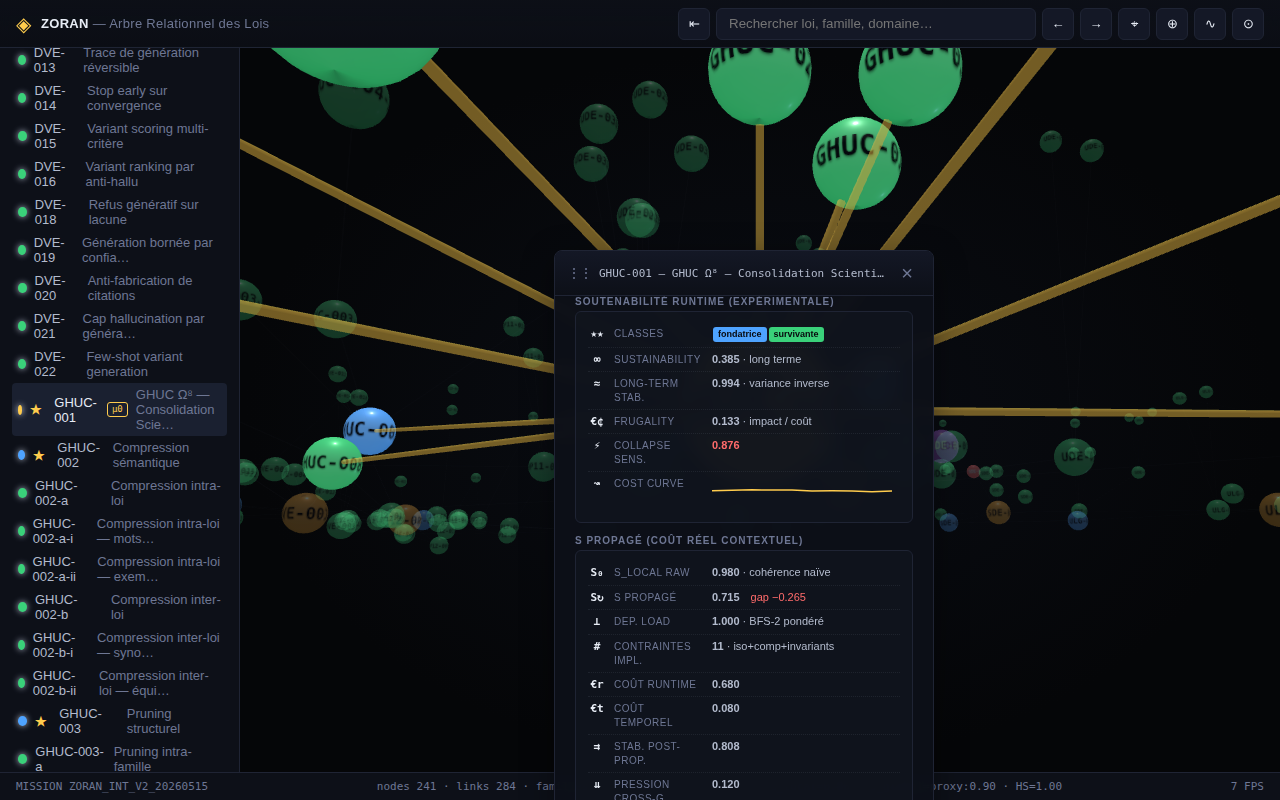
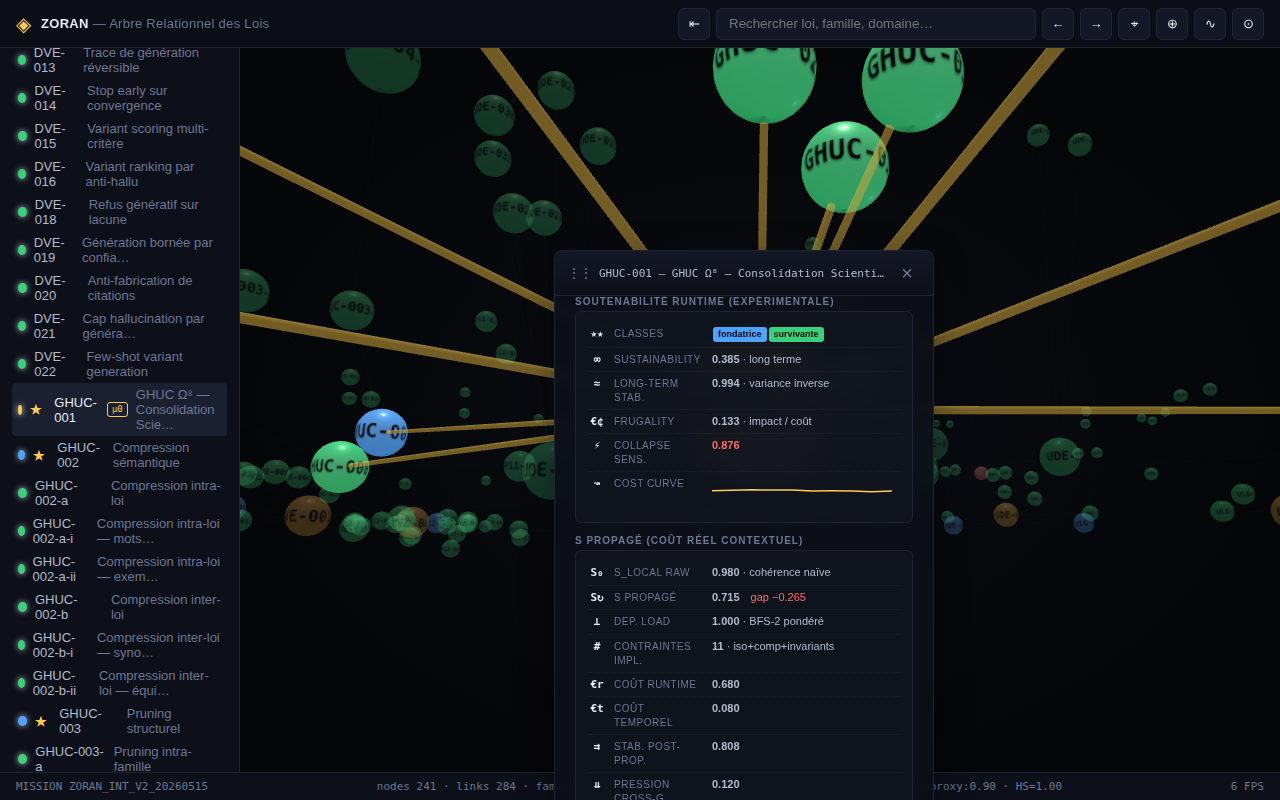
Renforcement ★ visibles + pan clic droit confirmé runtime
- Anneaux dorés ★ agrandis (1.40/1.70/2.05r, opacité 0.95/0.65/0.30) +
  sprite étoile SVG flottant au-dessus de chaque sphère (renderOrder 999)
  + pulse subtil 1.0±0.06 à 1.6 Hz pour signaler les 29 lois supérieures.
- Smoke test : pan clic droit validé runtime — dcam=592 units après drag
  Playwright LEFT (warmup) + RIGHT + synthetic PointerEvent. enablePan=true,
  mouseButtons.RIGHT=2=PAN, controls=OrbitControls. 8/8 vert, 0 erreur.

https://claude.ai/code/session_011xhkYNTzAhQ8wkL4Snv1iD

diff --git a/app/src/main.js b/app/src/main.js
@@ -189,17 +189,51 @@ function makeBilliardMesh(node) {
   // Mission ZORAN_DYNAMIC_VELOCITY_HIERARCHY_GRAPH : les ★ doivent
   // être visibles DANS LE GRAPHE (pas seulement sidebar/panel).
   if (node.superior_law_candidate) {
+    // Inner bright gold ring (orbit plane independent — face camera each frame)
     const supRing1 = new THREE.Mesh(
-      new THREE.TorusGeometry(radius * 1.35, Math.max(0.06, radius * 0.03), 8, 64),
-      new THREE.MeshBasicMaterial({ color: 0xffcc4d, transparent: true, opacity: 0.55, depthWrite: false })
+      new THREE.TorusGeometry(radius * 1.40, Math.max(0.10, radius * 0.06), 10, 80),
+      new THREE.MeshBasicMaterial({ color: 0xffd34d, transparent: true, opacity: 0.95, depthWrite: false })
     );
+    // Outer warm-orange aura
     const supRing2 = new THREE.Mesh(
-      new THREE.TorusGeometry(radius * 1.55, Math.max(0.04, radius * 0.02), 8, 64),
-      new THREE.MeshBasicMaterial({ color: 0xff9c2e, transparent: true, opacity: 0.30, depthWrite: false })
+      new THREE.TorusGeometry(radius * 1.70, Math.max(0.07, radius * 0.04), 10, 80),
+      new THREE.MeshBasicMaterial({ color: 0xff9c2e, transparent: true, opacity: 0.65, depthWrite: false })
+    );
+    // Wide glow corona (soft)
+    const supRing3 = new THREE.Mesh(
+      new THREE.TorusGeometry(radius * 2.05, Math.max(0.05, radius * 0.025), 8, 64),
+      new THREE.MeshBasicMaterial({ color: 0xffe88a, transparent: true, opacity: 0.30, depthWrite: false })
     );
     mesh.add(supRing1);
     mesh.add(supRing2);
-    mesh.userData.zoranSuperiorRings = [supRing1, supRing2];
+    mesh.add(supRing3);
+    mesh.userData.zoranSuperiorRings = [supRing1, supRing2, supRing3];
+
+    // Star sprite floating above the sphere
+    const starCanvas = document.createElement('canvas');
+    starCanvas.width = 128; starCanvas.height = 128;
+    const sctx = starCanvas.getContext('2d');
+    sctx.clearRect(0, 0, 128, 128);
+    sctx.fillStyle = '#ffd34d';
+    sctx.font = 'bold 96px serif';
+    sctx.textAlign = 'center';
+    sctx.textBaseline = 'middle';
+    sctx.shadowColor = '#ffcc4d';
+    sctx.shadowBlur = 22;
+    sctx.fillText('★', 64, 70);
+    const starTex = new THREE.CanvasTexture(starCanvas);
+    starTex.minFilter = THREE.LinearFilter;
+    const starMat = new THREE.SpriteMaterial({
+      map: starTex, color: 0xffffff, transparent: true,
+      depthWrite: false, depthTest: false
+    });
+    const star = new THREE.Sprite(starMat);
+    const starScale = Math.max(6, radius * 1.1);
+    star.scale.set(starScale, starScale, 1);
+    star.position.set(0, radius * 1.95, 0);
+    star.renderOrder = 999;
+    mesh.add(star);
+    mesh.userData.zoranSuperiorStar = star;
   }
 
   state.meshes.set(node.id, mesh);
@@ -229,10 +263,18 @@ function updateHalos() {
       halo.lookAt(cam.position);
     }
   }
-  // Persistent superior_law rings — orient toward camera
+  // Persistent superior_law rings — orient toward camera + soft pulse
+  const t = performance.now() * 0.001;
+  const pulse = 1.0 + Math.sin(t * 1.6) * 0.06;
   for (const mesh of state.meshes.values()) {
     const rings = mesh.userData.zoranSuperiorRings;
-    if (rings) for (const r of rings) r.lookAt(cam.position);
+    if (rings) {
+      for (let i = 0; i < rings.length; i++) {
+        rings[i].lookAt(cam.position);
+        rings[i].scale.set(pulse, pulse, 1);
+      }
+    }
+    // Star sprite already auto-billboarded (Sprite always faces camera)
   }
 }
 
